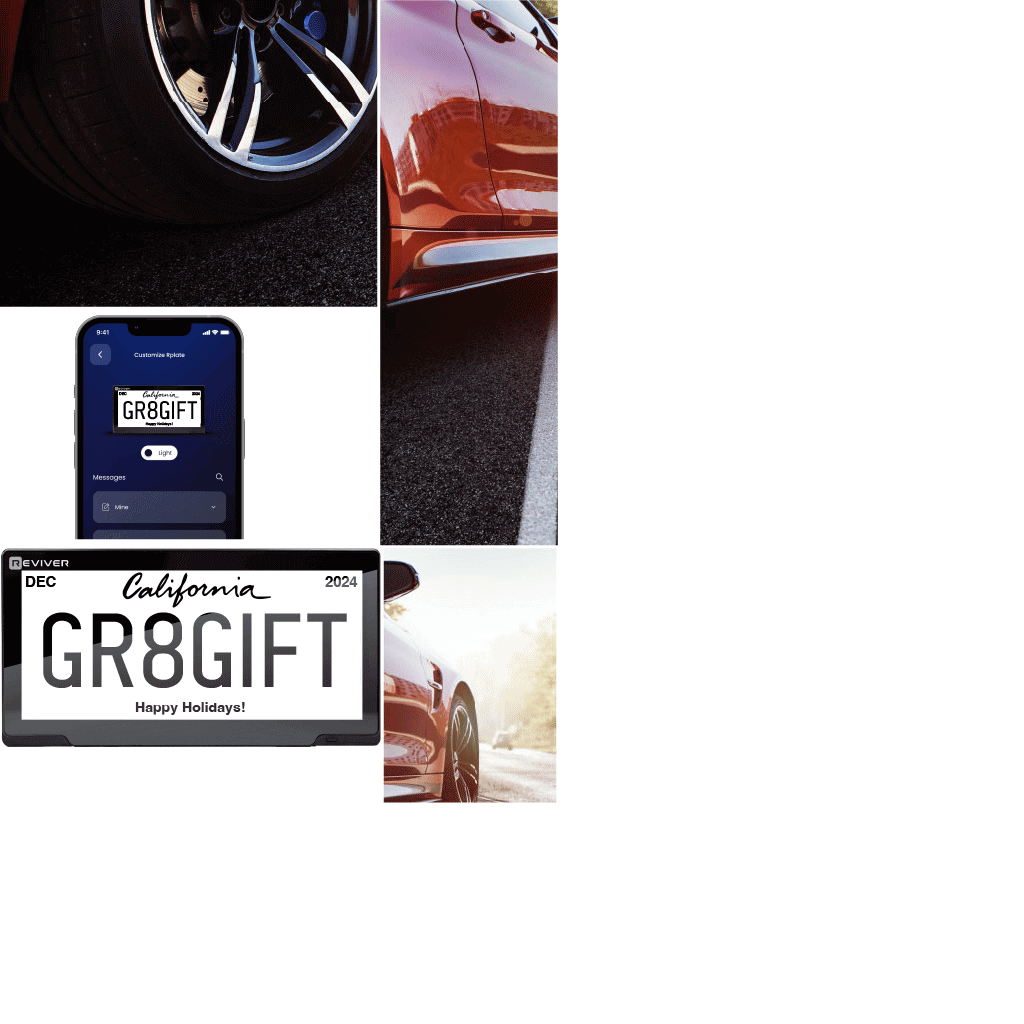
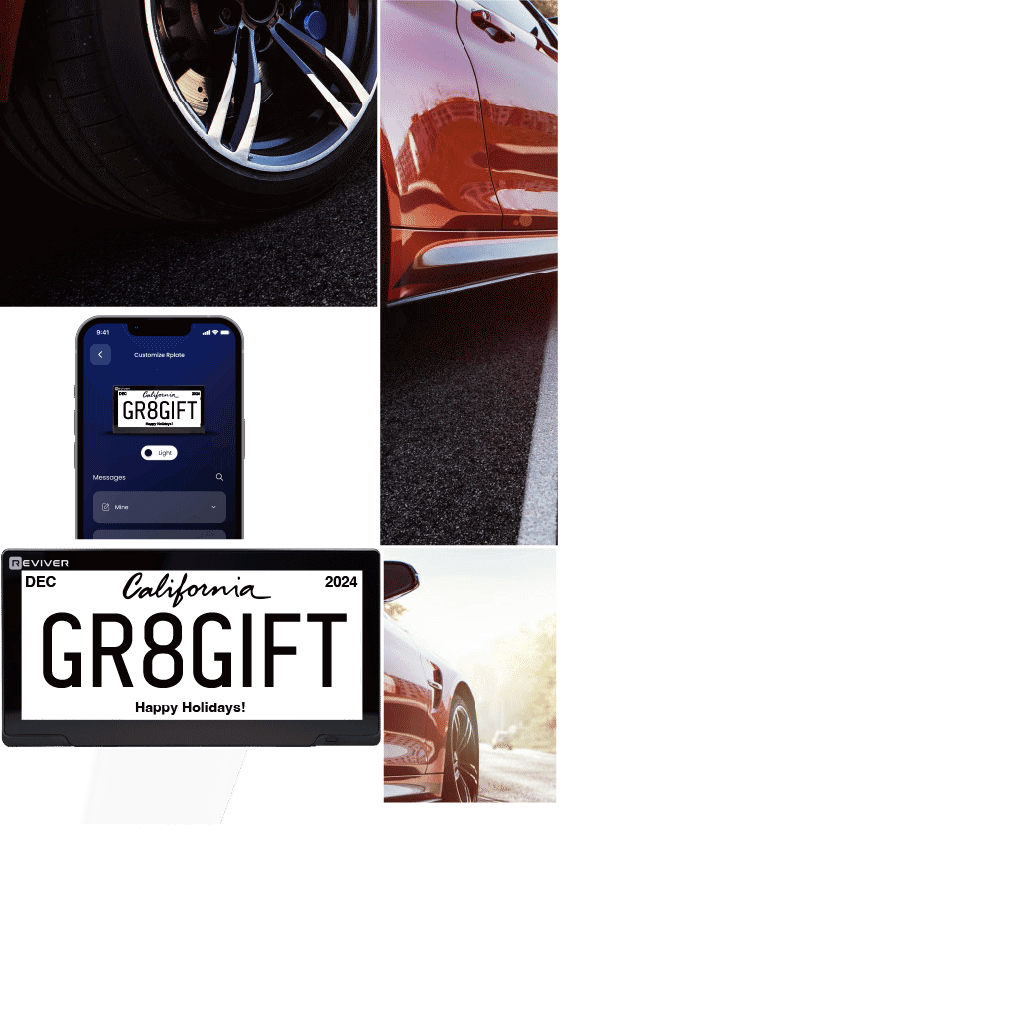
Add files via upload

diff --git a/01-prosp-CA/970x250/REV691_Holiday_CA_Prospect_Flight1_970x250.js b/01-prosp-CA/970x250/REV691_Holiday_CA_Prospect_Flight1_970x250.js
@@ -3,7 +3,7 @@
 var p; // shortcut to reference prototypes
 var lib={};var ss={};var img={};
 lib.ssMetadata = [
-		{name:"REV691_Holiday_CA_Prospect_Flight1_970x250_atlas_1", frames: [[0,0,378,307],[380,0,178,546],[383,548,174,255],[0,309,284,231],[0,548,381,199]]}
+		{name:"REV691_Holiday_CA_Prospect_Flight1_970x250_atlas_1", frames: [[0,0,378,307],[380,0,178,546],[383,548,174,255],[0,309,284,231],[0,548,381,199],[0,749,250,75]]}
 ];
 
 
@@ -58,6 +58,13 @@ lib.ssMetadata = [
 (lib.f1plategr8giftCA = function() {
 	this.initialize(ss["REV691_Holiday_CA_Prospect_Flight1_970x250_atlas_1"]);
 	this.gotoAndStop(4);
+}).prototype = p = new cjs.Sprite();
+
+
+
+(lib.plateHL3 = function() {
+	this.initialize(ss["REV691_Holiday_CA_Prospect_Flight1_970x250_atlas_1"]);
+	this.gotoAndStop(5);
 }).prototype = p = new cjs.Sprite();
 // helper functions:
 
@@ -159,39 +166,39 @@ if (reversed == null) { reversed = false; }
 	// Layer_1
 	this.shape = new cjs.Shape();
 	this.shape.graphics.f("#FFFFFF").s().p("AByCaQgGAAgCgCIgFgEIhtiRIBCAAQAXAAAJgJQAJgJAAgUIAAgSQAAgUgJgKQgJgJgXAAIiiAAQgFAAAAAFIAADnQAAAKgKAAIgvAAQgLAAAAgKIAAkbQAAgOAOAAIDrAAQAzAAAWAXQAWAXAAAtIAAAZQAAAlgQAVQgPAWgjAHIBLBcIAAABQADACgCAEQAAAFgHAAg");
-	this.shape.setTransform(7.3225,-120.6785,0.4753,0.4753,-89.9926);
+	this.shape.setTransform(7.3184,-120.6748,0.4752,0.4752,-89.9945);
 
 	this.shape_1 = new cjs.Shape();
 	this.shape_1.graphics.f("#FFFFFF").s().p("ABxCaQgFAAgDgCIgEgEIhuiRIBDAAQAWAAAKgJQAJgJAAgUIAAgSQAAgUgJgKQgKgJgWAAIiiAAQgGAAAAAFIAADnQAAAKgJAAIgwAAQgKAAAAgKIAAkbQAAgOANAAIDsAAQAyAAAWAXQAWAXAAAtIAAAZQAAAlgPAVQgPAWgjAHIBLBcIAAABQACACgBAEQAAAFgHAAg");
-	this.shape_1.setTransform(7.3081,-8.4371,0.4753,0.4753,-89.9926);
+	this.shape_1.setTransform(7.3076,-8.4371,0.4752,0.4752,-89.9945);
 
 	this.shape_2 = new cjs.Shape();
[1 lines of base64/hex data omitted]
-	this.shape_2.setTransform(7.3196,-100.036,0.4752,0.4752,-89.9926);
+	this.shape_2.setTransform(7.3154,-100.0234,0.4752,0.4752,-89.9945);
 
 	this.shape_3 = new cjs.Shape();
[1 lines of base64/hex data omitted]
-	this.shape_3.setTransform(7.3051,-79.5879,0.4752,0.4752,-89.9926);
+	this.shape_3.setTransform(7.3016,-79.5779,0.4752,0.4752,-89.9945);
 
 	this.shape_4 = new cjs.Shape();
 	this.shape_4.graphics.f("#FFFFFF").s().p("AgXCZQgKAAAAgJIAAkfQAAgKAKAAIAvAAQAKAAAAAKIAAEfQAAAJgKAAg");
-	this.shape_4.setTransform(7.3031,-64.2984,0.4752,0.4752,-89.9926);
+	this.shape_4.setTransform(7.3001,-64.2903,0.4752,0.4752,-89.9945);
 
 	this.shape_5 = new cjs.Shape();
[1 lines of base64/hex data omitted]
-	this.shape_5.setTransform(7.3012,-49.0077,0.4752,0.4752,-89.9926);
+	this.shape_5.setTransform(7.2986,-49.0016,0.4752,0.4752,-89.9945);
 
 	this.shape_6 = new cjs.Shape();
[1 lines of base64/hex data omitted]
-	this.shape_6.setTransform(7.3103,-27.5389,0.4752,0.4752,-89.9926);
+	this.shape_6.setTransform(7.3085,-27.5356,0.4752,0.4752,-89.9945);
 
 	this.shape_7 = new cjs.Shape();
 	this.shape_7.graphics.f("#FFFFFF").s().p("AAJASIAAgUIgHANIgDAAIgHgNIAAAUIgIAAIAAgkIAHAAIAJAUIAKgUIAHAAIAAAkg");
-	this.shape_7.setTransform(1.039,-134.2224,0.4753,0.4753,-89.9926);
+	this.shape_7.setTransform(1.0347,-134.2181,0.4752,0.4752,-89.9945);
 
 	this.shape_8 = new cjs.Shape();
 	this.shape_8.graphics.f("#FFFFFF").s().p("AgDASIAAgdIgJAAIAAgHIAZAAIAAAHIgKAAIAAAdg");
-	this.shape_8.setTransform(1.0388,-132.5353,0.4753,0.4753,-89.9926);
+	this.shape_8.setTransform(1.0345,-132.5311,0.4752,0.4752,-89.9945);
 
 	this.timeline.addTween(cjs.Tween.get({}).to({state:[{t:this.shape_8},{t:this.shape_7},{t:this.shape_6},{t:this.shape_5},{t:this.shape_4},{t:this.shape_3},{t:this.shape_2},{t:this.shape_1},{t:this.shape}]}).wait(1));
 
@@ -200,7 +207,7 @@ if (reversed == null) { reversed = false; }
 }).prototype = getMCSymbolPrototype(lib.LOGO, new cjs.Rectangle(0,-135,14.6,135), null);
 
 
-(lib.HEAD = function(mode,startPosition,loop,reversed) {
+(lib.HL = function(mode,startPosition,loop,reversed) {
 if (loop == null) { loop = true; }
 if (reversed == null) { reversed = false; }
 	var props = new Object();
@@ -212,15 +219,119 @@ if (reversed == null) { reversed = false; }
 	cjs.MovieClip.apply(this,[props]);
 
 	// Layer_1
+	this.instance = new lib.plateHL3();
+	this.instance.setTransform(5.1,-163,0.3765,3.0608,0,0,180);
+
+	this.timeline.addTween(cjs.Tween.get(this.instance).wait(1));
+
+	this._renderFirstFrame();
+
+}).prototype = getMCSymbolPrototype(lib.HL, new cjs.Rectangle(-89,-163,94.1,229.6), null);
+
+
+(lib.HEAD3 = function(mode,startPosition,loop,reversed) {
+if (loop == null) { loop = true; }
+if (reversed == null) { reversed = false; }
+	var props = new Object();
+	props.mode = mode;
+	props.startPosition = startPosition;
+	props.labels = {};
+	props.loop = loop;
+	props.reversed = reversed;
+	cjs.MovieClip.apply(this,[props]);
+
+	// Layer_2 (mask)
+	var mask = new cjs.Shape();
+	mask._off = true;
+	mask.graphics.p("AKKJ2IAAzrIbMAAIAATrg");
+	mask.setTransform(239,41.025);
+
+	// Layer_1
 	this.shape = new cjs.Shape();
[1 lines of base64/hex data omitted]
 	this.shape.setTransform(220.975,41.825);
+
+	var maskedShapeInstanceList = [this.shape];
+
+	for(var shapedInstanceItr = 0; shapedInstanceItr < maskedShapeInstanceList.length; shapedInstanceItr++) {
+		maskedShapeInstanceList[shapedInstanceItr].mask = mask;
+	}
 
 	this.timeline.addTween(cjs.Tween.get(this.shape).wait(1));
 
 	this._renderFirstFrame();
 
-}).prototype = getMCSymbolPrototype(lib.HEAD, new cjs.Rectangle(6.8,8.3,428.4,67.10000000000001), null);
+}).prototype = getMCSymbolPrototype(lib.HEAD3, new cjs.Rectangle(304,8.3,131.2,67.10000000000001), null);
+
+
+(lib.HEAD2 = function(mode,startPosition,loop,reversed) {
+if (loop == null) { loop = true; }
+if (reversed == null) { reversed = false; }
+	var props = new Object();
+	props.mode = mode;
+	props.startPosition = startPosition;
+	props.labels = {};
+	props.loop = loop;
+	props.reversed = reversed;
+	cjs.MovieClip.apply(this,[props]);
+
+	// Layer_2 (mask)
+	var mask = new cjs.Shape();
+	mask._off = true;
+	mask.graphics.p("AgYJ2IAAzrIXbAAIAATrg");
+	mask.setTransform(147.5057,41.025);
+
+	// Layer_1
+	this.shape = new cjs.Shape();
[1 lines of base64/hex data omitted]
+	this.shape.setTransform(220.975,41.825);
+
+	var maskedShapeInstanceList = [this.shape];
+
+	for(var shapedInstanceItr = 0; shapedInstanceItr < maskedShapeInstanceList.length; shapedInstanceItr++) {
+		maskedShapeInstanceList[shapedInstanceItr].mask = mask;
+	}
+
+	this.timeline.addTween(cjs.Tween.get(this.shape).wait(1));
+
+	this._renderFirstFrame();
+
+}).prototype = getMCSymbolPrototype(lib.HEAD2, new cjs.Rectangle(145,8.3,150,67.10000000000001), null);
+
+
+(lib.HEAD1 = function(mode,startPosition,loop,reversed) {
+if (loop == null) { loop = true; }
+if (reversed == null) { reversed = false; }
+	var props = new Object();
+	props.mode = mode;
+	props.startPosition = startPosition;
+	props.labels = {};
+	props.loop = loop;
+	props.reversed = reversed;
+	cjs.MovieClip.apply(this,[props]);
+
+	// Layer_2 (mask)
+	var mask = new cjs.Shape();
+	mask._off = true;
+	mask.graphics.p("AtlJ2IAAzrIbLAAIAATrg");
+	mask.setTransform(63,41.025);
+
+	// Layer_1
+	this.shape = new cjs.Shape();
[1 lines of base64/hex data omitted]
+	this.shape.setTransform(220.975,41.825);
+
+	var maskedShapeInstanceList = [this.shape];
+
+	for(var shapedInstanceItr = 0; shapedInstanceItr < maskedShapeInstanceList.length; shapedInstanceItr++) {
+		maskedShapeInstanceList[shapedInstanceItr].mask = mask;
+	}
+
+	this.timeline.addTween(cjs.Tween.get(this.shape).wait(1));
+
+	this._renderFirstFrame();
+
+}).prototype = getMCSymbolPrototype(lib.HEAD1, new cjs.Rectangle(6.8,8.3,143.2,67.10000000000001), null);
 
 
 (lib.f1snowflakesvg = function(mode,startPosition,loop,reversed) {
@@ -416,100 +527,134 @@ if (reversed == null) { reversed = false; }
 	props.reversed = reversed;
 	cjs.MovieClip.apply(this,[props]);
 
-	this.actionFrames = [25];
+	this.actionFrames = [195];
 	// timeline functions:
-	this.frame_25 = function() {
+	this.frame_195 = function() {
 		this.stop();
 	}
 
 	// actions tween:
-	this.timeline.addTween(cjs.Tween.get(this).wait(25).call(this.frame_25).wait(1));
+	this.timeline.addTween(cjs.Tween.get(this).wait(195).call(this.frame_195).wait(1));
 
 	// border
 	this.shape = new cjs.Shape();
 	this.shape.graphics.f().s("#000000").ss(1,2,0,3).p("EhLsgTcMCXZAAAMAAAAm5MiXZAAAg");
 	this.shape.setTransform(485,125);
 
-	this.timeline.addTween(cjs.Tween.get(this.shape).wait(26));
+	this.timeline.addTween(cjs.Tween.get(this.shape).wait(196));
 
 	// ICON
 	this.instance = new lib.ICON();
 	this.instance.setTransform(32.3,32.3);
 
-	this.timeline.addTween(cjs.Tween.get(this.instance).wait(26));
+	this.timeline.addTween(cjs.Tween.get(this.instance).wait(196));
 
 	// CTA
 	this.instance_1 = new lib.CTA();
 	this.instance_1.setTransform(856.1,0.1,1,1,0,0,0,0.1,0.1);
 
-	this.timeline.addTween(cjs.Tween.get(this.instance_1).wait(26));
+	this.timeline.addTween(cjs.Tween.get(this.instance_1).wait(196));
 
 	// LOGO
 	this.instance_2 = new lib.LOGO();
 	this.instance_2.setTransform(13.75,235.1,0.98,0.98);
 
-	this.timeline.addTween(cjs.Tween.get(this.instance_2).wait(26));
+	this.timeline.addTween(cjs.Tween.get(this.instance_2).wait(196));
 
 	// CAR1
 	this.instance_3 = new lib.CAR1();
 	this.instance_3.setTransform(545,326.75);
 	this.instance_3._off = true;
 
-	this.timeline.addTween(cjs.Tween.get(this.instance_3).wait(1).to({_off:false},0).to({y:192},8,cjs.Ease.circOut).wait(17));
+	this.timeline.addTween(cjs.Tween.get(this.instance_3).wait(1).to({_off:false},0).to({y:192},8,cjs.Ease.circOut).wait(187));
 
 	// CAR2
 	this.instance_4 = new lib.CAR2();
 	this.instance_4.setTransform(900.5,128.5);
 	this.instance_4._off = true;
 
-	this.timeline.addTween(cjs.Tween.get(this.instance_4).wait(1).to({_off:false},0).to({x:697.5},8,cjs.Ease.circOut).wait(17));
+	this.timeline.addTween(cjs.Tween.get(this.instance_4).wait(4).to({_off:false},0).to({x:697.5},8,cjs.Ease.circOut).wait(184));
 
 	// CAR3
 	this.instance_5 = new lib.CAR3();
 	this.instance_5.setTransform(797.5,-63.25);
 	this.instance_5._off = true;
 
-	this.timeline.addTween(cjs.Tween.get(this.instance_5).wait(1).to({_off:false},0).to({y:56.75},8,cjs.Ease.circOut).wait(17));
+	this.timeline.addTween(cjs.Tween.get(this.instance_5).wait(7).to({_off:false},0).to({y:56.75},8,cjs.Ease.circOut).wait(181));
 
-	// PLATE
-	this.instance_6 = new lib.PLATE();
-	this.instance_6.setTransform(549.25,-47,1.0531,1.0531);
+	// mask_idn (mask)
+	var mask = new cjs.Shape();
+	mask._off = true;
[1 lines of base64/hex data omitted]
+
+	this.timeline.addTween(cjs.Tween.get(mask).to({graphics:null,x:0,y:0}).wait(146).to({graphics:mask_graphics_146,x:319.4908,y:52.5468}).wait(50));
+
+	// HL
+	this.instance_6 = new lib.HL();
+	this.instance_6.setTransform(577.5,517.65,1,1,77.0018,0,0,298,0);
 	this.instance_6._off = true;
 
-	this.timeline.addTween(cjs.Tween.get(this.instance_6).wait(5).to({_off:false},0).to({y:58.45},8,cjs.Ease.circOut).wait(13));
+	var maskedShapeInstanceList = [this.instance_6];
 
-	// PHONE
-	this.instance_7 = new lib.PHONE();
-	this.instance_7.setTransform(790,307.25);
+	for(var shapedInstanceItr = 0; shapedInstanceItr < maskedShapeInstanceList.length; shapedInstanceItr++) {
+		maskedShapeInstanceList[shapedInstanceItr].mask = mask;
+	}
+
+	this.timeline.addTween(cjs.Tween.get(this.instance_6).wait(146).to({_off:false},0).to({y:424.15},48,cjs.Ease.quintOut).wait(2));
+
+	// PLATE
+	this.instance_7 = new lib.PLATE();
+	this.instance_7.setTransform(549.25,-47,1.0531,1.0531);
 	this.instance_7._off = true;
 
-	this.timeline.addTween(cjs.Tween.get(this.instance_7).wait(5).to({_off:false},0).to({y:183.75},8,cjs.Ease.circOut).wait(13));
+	this.timeline.addTween(cjs.Tween.get(this.instance_7).wait(21).to({_off:false},0).to({y:58.45},8,cjs.Ease.circOut).wait(167));
 
-	// HEAD
-	this.instance_8 = new lib.HEAD();
-	this.instance_8.setTransform(-369,140.5,0.8338,0.8338,0,0,0,0.1,-0.1);
+	// PHONE
+	this.instance_8 = new lib.PHONE();
+	this.instance_8.setTransform(790,307.25);
 	this.instance_8._off = true;
 
-	this.timeline.addTween(cjs.Tween.get(this.instance_8).wait(9).to({_off:false},0).to({x:41},8,cjs.Ease.circOut).wait(9));
+	this.timeline.addTween(cjs.Tween.get(this.instance_8).wait(24).to({_off:false},0).to({y:183.75},8,cjs.Ease.circOut).wait(164));
 
-	// SUBHEAD
-	this.instance_9 = new lib.SUBHEAD();
-	this.instance_9.setTransform(-377,213);
+	// HEAD3
+	this.instance_9 = new lib.HEAD3();
+	this.instance_9.setTransform(-369,140.5,0.8338,0.8338,0,0,0,0.1,-0.1);
 	this.instance_9._off = true;
 
-	this.timeline.addTween(cjs.Tween.get(this.instance_9).wait(13).to({_off:false},0).to({x:43},8,cjs.Ease.circOut).wait(5));
+	this.timeline.addTween(cjs.Tween.get(this.instance_9).wait(65).to({_off:false},0).to({x:41},8,cjs.Ease.circOut).wait(123));
+
+	// HEAD2
+	this.instance_10 = new lib.HEAD2();
+	this.instance_10.setTransform(-369,140.5,0.8338,0.8338,0,0,0,0.1,-0.1);
+	this.instance_10._off = true;
+
+	this.timeline.addTween(cjs.Tween.get(this.instance_10).wait(52).to({_off:false},0).to({x:41},8,cjs.Ease.circOut).wait(136));
+
+	// HEAD1
+	this.instance_11 = new lib.HEAD1();
+	this.instance_11.setTransform(-369,140.5,0.8338,0.8338,0,0,0,0.1,-0.1);
+	this.instance_11._off = true;
+
+	this.timeline.addTween(cjs.Tween.get(this.instance_11).wait(39).to({_off:false},0).to({x:41,y:138.8},8,cjs.Ease.circOut).wait(149));
+
+	// SUBHEAD
+	this.instance_12 = new lib.SUBHEAD();
+	this.instance_12.setTransform(-377,213);
+	this.instance_12._off = true;
+
+	this.timeline.addTween(cjs.Tween.get(this.instance_12).wait(83).to({_off:false},0).to({x:43},8,cjs.Ease.circOut).wait(105));
 
 	// BKGD
 	this.shape_1 = new cjs.Shape();
 	this.shape_1.graphics.f("#E63636").s().p("EhLxATiMAAAgnDMCXjAAAMAAAAnDg");
 	this.shape_1.setTransform(485,125);
 
-	this.timeline.addTween(cjs.Tween.get(this.shape_1).wait(26));
+	this.timeline.addTween(cjs.Tween.get(this.shape_1).wait(196));
 
 	this._renderFirstFrame();
 
 }).prototype = p = new lib.AnMovieClip();
-p.nominalBounds = new cjs.Rectangle(111,-2,859.5,405.5);
+p.nominalBounds = new cjs.Rectangle(95.9,-2,874.6,405.5);
 // library properties:
 lib.properties = {
 	id: '0E11E9F5D49240C6BBEEAC80F63F5DAC',
